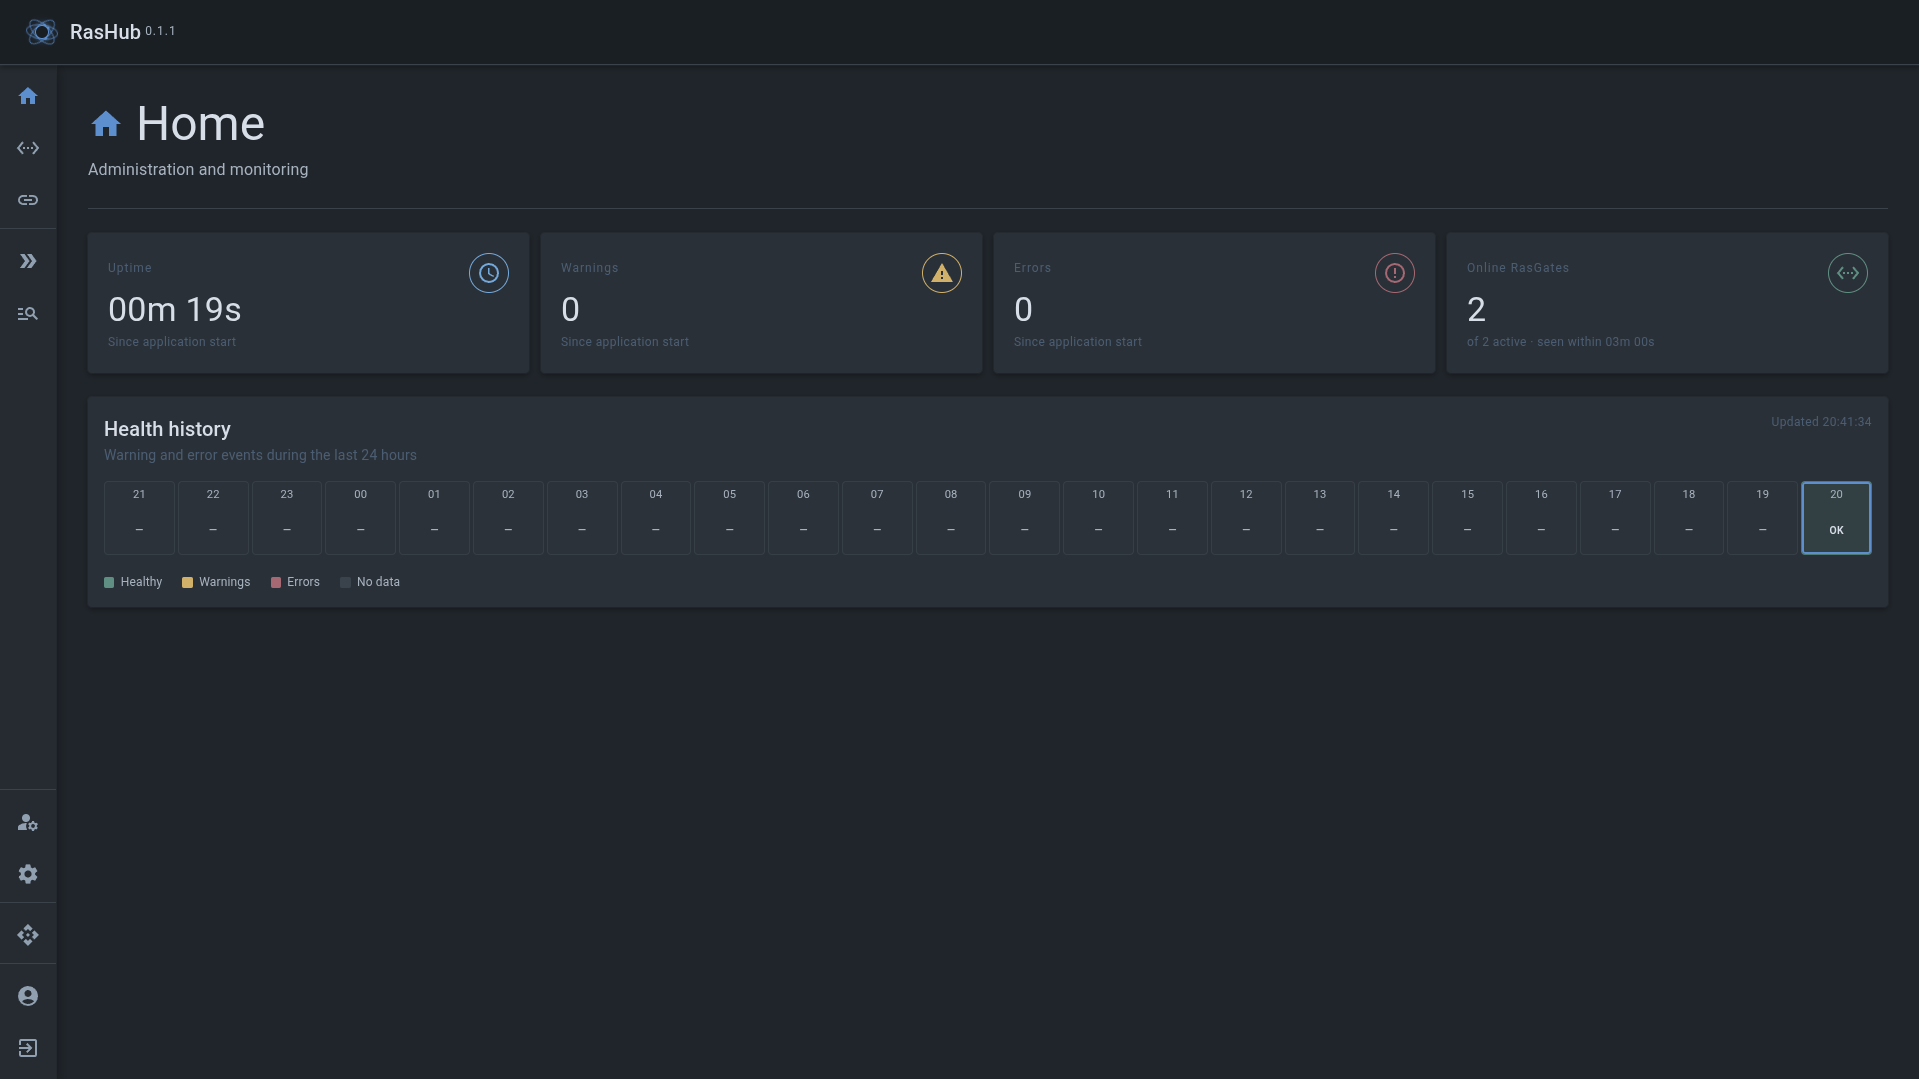
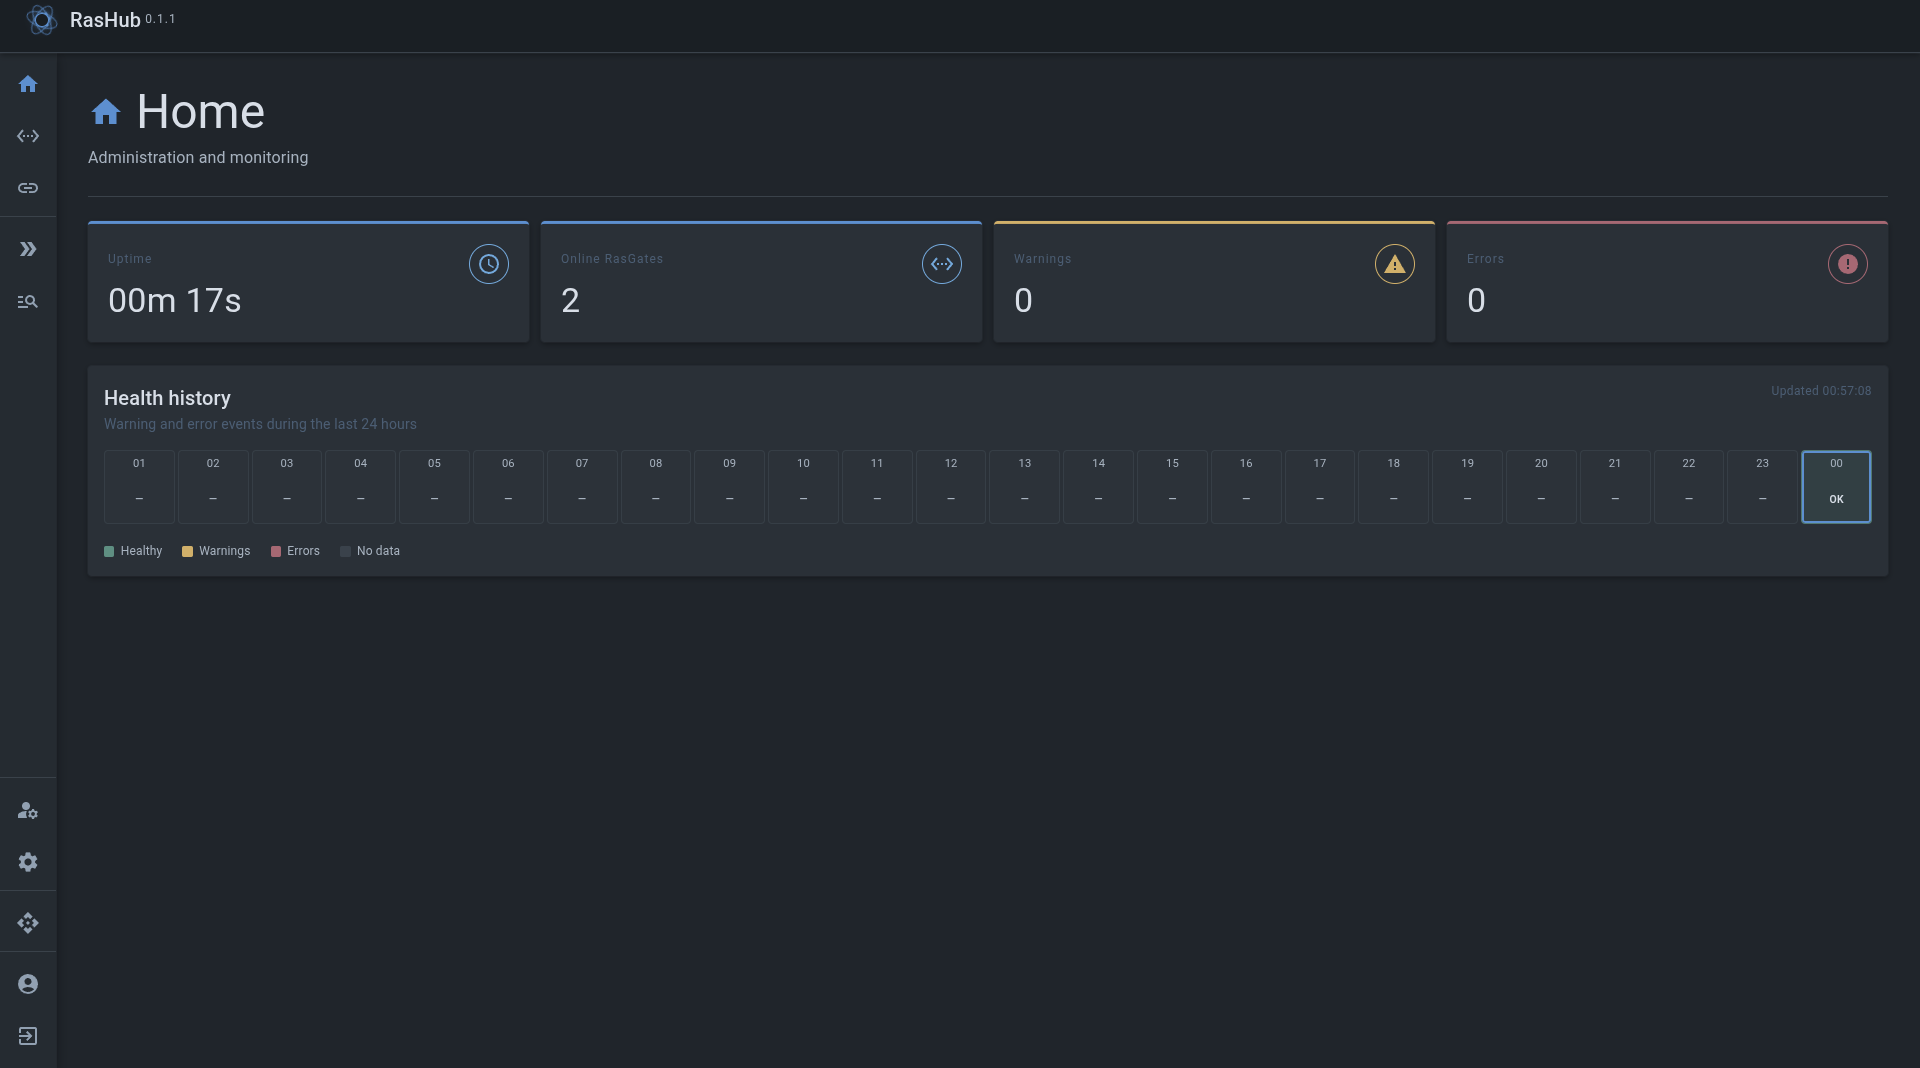
docs: refresh ecosystem overview and component visuals

diff --git a/profile/README.ru.md b/profile/README.ru.md
@@ -3,6 +3,7 @@
 
   <img src="https://img.shields.io/badge/.NET-10-512BD4?logo=dotnet&amp;logoColor=white" alt=".NET 10">
   <img src="https://img.shields.io/badge/1C%3AEnterprise-RAS-F4C430" alt="1C:Enterprise RAS">
+  <br><br>
 
   <p>
     Инструменты и сервисы для управления RAS-инфраструктурой платформы 1С:Предприятие.
@@ -15,28 +16,28 @@
   <tbody>
     <tr>
       <td align="center" valign="top" width="50%">
-        <a href="https://github.com/RasEcosystem/ras-studio-mono">
-          <img src="./assets/ras-studio-placeholder.png" width="400" height="225" alt="RasStudio Mono">
-        </a>
-        <br>
         <strong>
           <a href="https://github.com/RasEcosystem/ras-studio-mono">RasStudio Mono</a>
         </strong>
         <br><br>
-        <img src="https://img.shields.io/badge/status-experimental-D29922" alt="Экспериментальный статус">
+        <a href="https://github.com/RasEcosystem/ras-studio-mono">
+          <img src="./assets/ras-studio-placeholder.png" width="400" height="225" alt="RasStudio Mono">
+        </a>
+        <br><br>
+        <img src="https://img.shields.io/badge/status-experimental-FFFFFF" alt="Экспериментальный статус">
         <img src="https://img.shields.io/badge/platform-Windows%20%7C%20Linux-2563EB" alt="Windows и Linux">
         <img src="https://img.shields.io/badge/license-MIT-2EA043" alt="Лицензия MIT">
         <br><br>
         <strong>Десктоп-клиент.</strong> Предоставляет интерфейс для администрирования RAS-инфраструктуры
       </td>
       <td align="center" valign="top" width="50%">
-        <a href="https://github.com/RasEcosystem/ras-hub">
-          <img src="./assets/ras-hub-placeholder.png" width="400" height="225" alt="RasHub">
-        </a>
-        <br>
         <strong>
           <a href="https://github.com/RasEcosystem/ras-hub">RasHub</a>
         </strong>
+        <br><br>
+        <a href="https://github.com/RasEcosystem/ras-hub">
+          <img src="./assets/ras-hub-placeholder.png" width="400" height="225" alt="RasHub">
+        </a>
         <br><br>
         <img src="https://img.shields.io/badge/container-Linux%20AMD64-2496ED?logo=docker&amp;logoColor=white" alt="Контейнер Linux AMD64">
         <img src="https://img.shields.io/badge/license-MIT-2EA043" alt="Лицензия MIT">
@@ -44,12 +45,24 @@
         <strong>Бэкенд-сервис.</strong> Предоставляет API и хранит состояние инфраструктуры RAS
       </td>
     </tr>
+  </tbody>
+  <tbody>
+    <tr>
+      <td align="center" valign="top" colspan="2">
+        <strong>RasWarden</strong>
+        <br><br>
+        <img src="./assets/ras-warden-placeholder.png" width="400" height="225" alt="RasWarden">
+        <br><br>
+        <img src="https://img.shields.io/badge/container-Linux%20AMD64-2496ED?logo=docker&amp;logoColor=white" alt="Контейнер Linux AMD64">
+        <img src="https://img.shields.io/badge/visibility-private-8B949E" alt="Приватный компонент">
+        <br><br>
+        <strong>Контроллер сеансов.</strong> Выявляет и автоматически устраняет нарушения политик использования информационных баз
+      </td>
+    </tr>
+  </tbody>
+  <tbody>
     <tr>
       <td align="center" valign="top" width="50%">
-        <a href="https://github.com/RasEcosystem/ras-gate">
-          <img src="./assets/ras-gate-placeholder.png" width="400" height="225" alt="RasGate">
-        </a>
-        <br>
         <strong>
           <a href="https://github.com/RasEcosystem/ras-gate">RasGate</a>
         </strong>
@@ -60,26 +73,12 @@
         <strong>Шлюз управления.</strong> Связывает компоненты экосистемы с серверами 1С:Предприятия
       </td>
       <td align="center" valign="top" width="50%">
-        <img src="./assets/ras-event-gate-placeholder.png" width="400" height="225" alt="RasEventGate">
-        <br>
         <strong>RasEventGate</strong>
         <br><br>
         <img src="https://img.shields.io/badge/platform-Windows%20%7C%20Linux-2563EB" alt="Windows и Linux">
         <img src="https://img.shields.io/badge/visibility-private-8B949E" alt="Приватный компонент">
         <br><br>
         <strong>Шлюз событий.</strong> Уведомляет компоненты и внешние системы о событиях на сервере
-      </td>
-    </tr>
-    <tr>
-      <td align="center" valign="top" colspan="2">
-        <img src="./assets/ras-warden-placeholder.png" width="400" height="225" alt="RasWarden">
-        <br>
-        <strong>RasWarden</strong>
-        <br><br>
-        <img src="https://img.shields.io/badge/container-Linux%20AMD64-2496ED?logo=docker&amp;logoColor=white" alt="Контейнер Linux AMD64">
-        <img src="https://img.shields.io/badge/visibility-private-8B949E" alt="Приватный компонент">
-        <br><br>
-        <strong>Контроллер сеансов.</strong> Выявляет и автоматически устраняет нарушения политик использования информационных баз
       </td>
     </tr>
   </tbody>

diff --git a/profile/README.md b/profile/README.md
@@ -3,6 +3,7 @@
 
   <img src="https://img.shields.io/badge/.NET-10-512BD4?logo=dotnet&amp;logoColor=white" alt=".NET 10">
   <img src="https://img.shields.io/badge/1C%3AEnterprise-RAS-F4C430" alt="1C:Enterprise RAS">
+  <br><br>
 
   <p>
     Tools and services for managing the RAS infrastructure of the 1C:Enterprise platform.
@@ -15,28 +16,28 @@
   <tbody>
     <tr>
       <td align="center" valign="top" width="50%">
-        <a href="https://github.com/RasEcosystem/ras-studio-mono">
-          <img src="./assets/ras-studio-placeholder.png" width="400" height="225" alt="RasStudio Mono">
-        </a>
-        <br>
         <strong>
           <a href="https://github.com/RasEcosystem/ras-studio-mono">RasStudio Mono</a>
         </strong>
         <br><br>
-        <img src="https://img.shields.io/badge/status-experimental-D29922" alt="Experimental status">
+        <a href="https://github.com/RasEcosystem/ras-studio-mono">
+          <img src="./assets/ras-studio-placeholder.png" width="400" height="225" alt="RasStudio Mono">
+        </a>
+        <br><br>
+        <img src="https://img.shields.io/badge/status-experimental-FFFFFF" alt="Experimental status">
         <img src="https://img.shields.io/badge/platform-Windows%20%7C%20Linux-2563EB" alt="Windows and Linux">
         <img src="https://img.shields.io/badge/license-MIT-2EA043" alt="MIT License">
         <br><br>
         <strong>Desktop client.</strong> Provides an interface for administering RAS infrastructure
       </td>
       <td align="center" valign="top" width="50%">
-        <a href="https://github.com/RasEcosystem/ras-hub">
-          <img src="./assets/ras-hub-placeholder.png" width="400" height="225" alt="RasHub">
-        </a>
-        <br>
         <strong>
           <a href="https://github.com/RasEcosystem/ras-hub">RasHub</a>
         </strong>
+        <br><br>
+        <a href="https://github.com/RasEcosystem/ras-hub">
+          <img src="./assets/ras-hub-placeholder.png" width="400" height="225" alt="RasHub">
+        </a>
         <br><br>
         <img src="https://img.shields.io/badge/container-Linux%20AMD64-2496ED?logo=docker&amp;logoColor=white" alt="Linux AMD64 container">
         <img src="https://img.shields.io/badge/license-MIT-2EA043" alt="MIT License">
@@ -44,12 +45,24 @@
         <strong>Backend service.</strong> Provides an API and stores RAS infrastructure state
       </td>
     </tr>
+  </tbody>
+  <tbody>
+    <tr>
+      <td align="center" valign="top" colspan="2">
+        <strong>RasWarden</strong>
+        <br><br>
+        <img src="./assets/ras-warden-placeholder.png" width="400" height="225" alt="RasWarden">
+        <br><br>
+        <img src="https://img.shields.io/badge/container-Linux%20AMD64-2496ED?logo=docker&amp;logoColor=white" alt="Linux AMD64 container">
+        <img src="https://img.shields.io/badge/visibility-private-8B949E" alt="Private component">
+        <br><br>
+        <strong>Session controller.</strong> Detects and automatically remediates violations of information base usage policies
+      </td>
+    </tr>
+  </tbody>
+  <tbody>
     <tr>
       <td align="center" valign="top" width="50%">
-        <a href="https://github.com/RasEcosystem/ras-gate">
-          <img src="./assets/ras-gate-placeholder.png" width="400" height="225" alt="RasGate">
-        </a>
-        <br>
         <strong>
           <a href="https://github.com/RasEcosystem/ras-gate">RasGate</a>
         </strong>
@@ -60,26 +73,12 @@
         <strong>Management gateway.</strong> Connects ecosystem components to 1C:Enterprise servers
       </td>
       <td align="center" valign="top" width="50%">
-        <img src="./assets/ras-event-gate-placeholder.png" width="400" height="225" alt="RasEventGate">
-        <br>
         <strong>RasEventGate</strong>
         <br><br>
         <img src="https://img.shields.io/badge/platform-Windows%20%7C%20Linux-2563EB" alt="Windows and Linux">
         <img src="https://img.shields.io/badge/visibility-private-8B949E" alt="Private component">
         <br><br>
         <strong>Event gateway.</strong> Notifies components and external systems about server events
-      </td>
-    </tr>
-    <tr>
-      <td align="center" valign="top" colspan="2">
-        <img src="./assets/ras-warden-placeholder.png" width="400" height="225" alt="RasWarden">
-        <br>
-        <strong>RasWarden</strong>
-        <br><br>
-        <img src="https://img.shields.io/badge/container-Linux%20AMD64-2496ED?logo=docker&amp;logoColor=white" alt="Linux AMD64 container">
-        <img src="https://img.shields.io/badge/visibility-private-8B949E" alt="Private component">
-        <br><br>
-        <strong>Session controller.</strong> Detects and automatically remediates violations of information base usage policies
       </td>
     </tr>
   </tbody>
